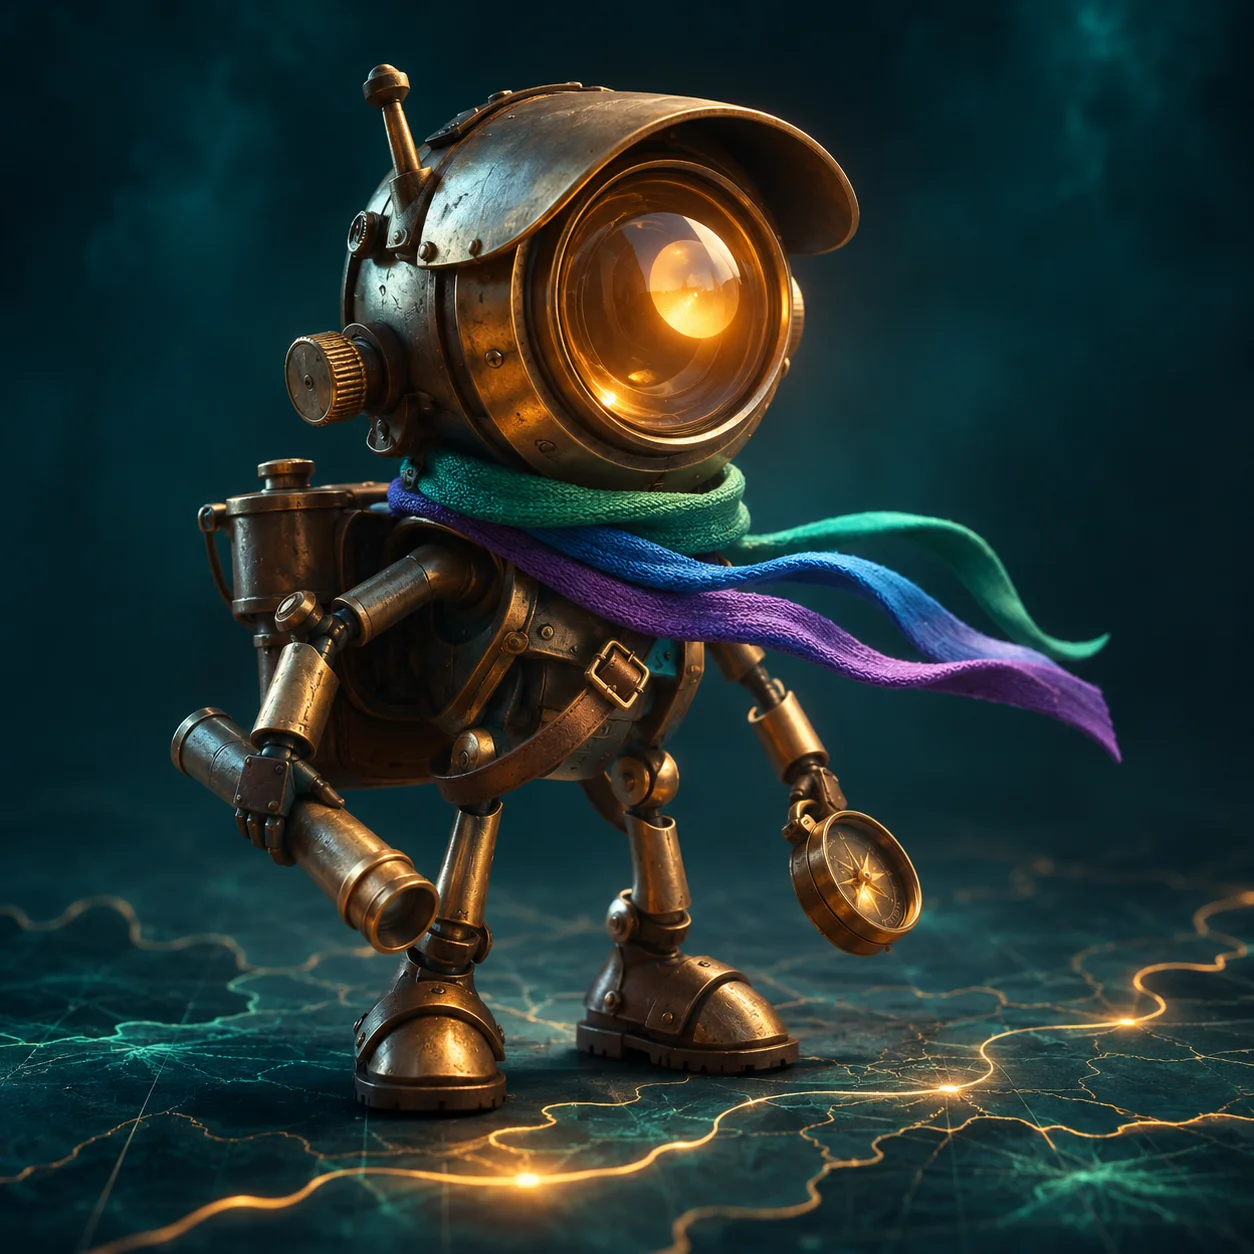
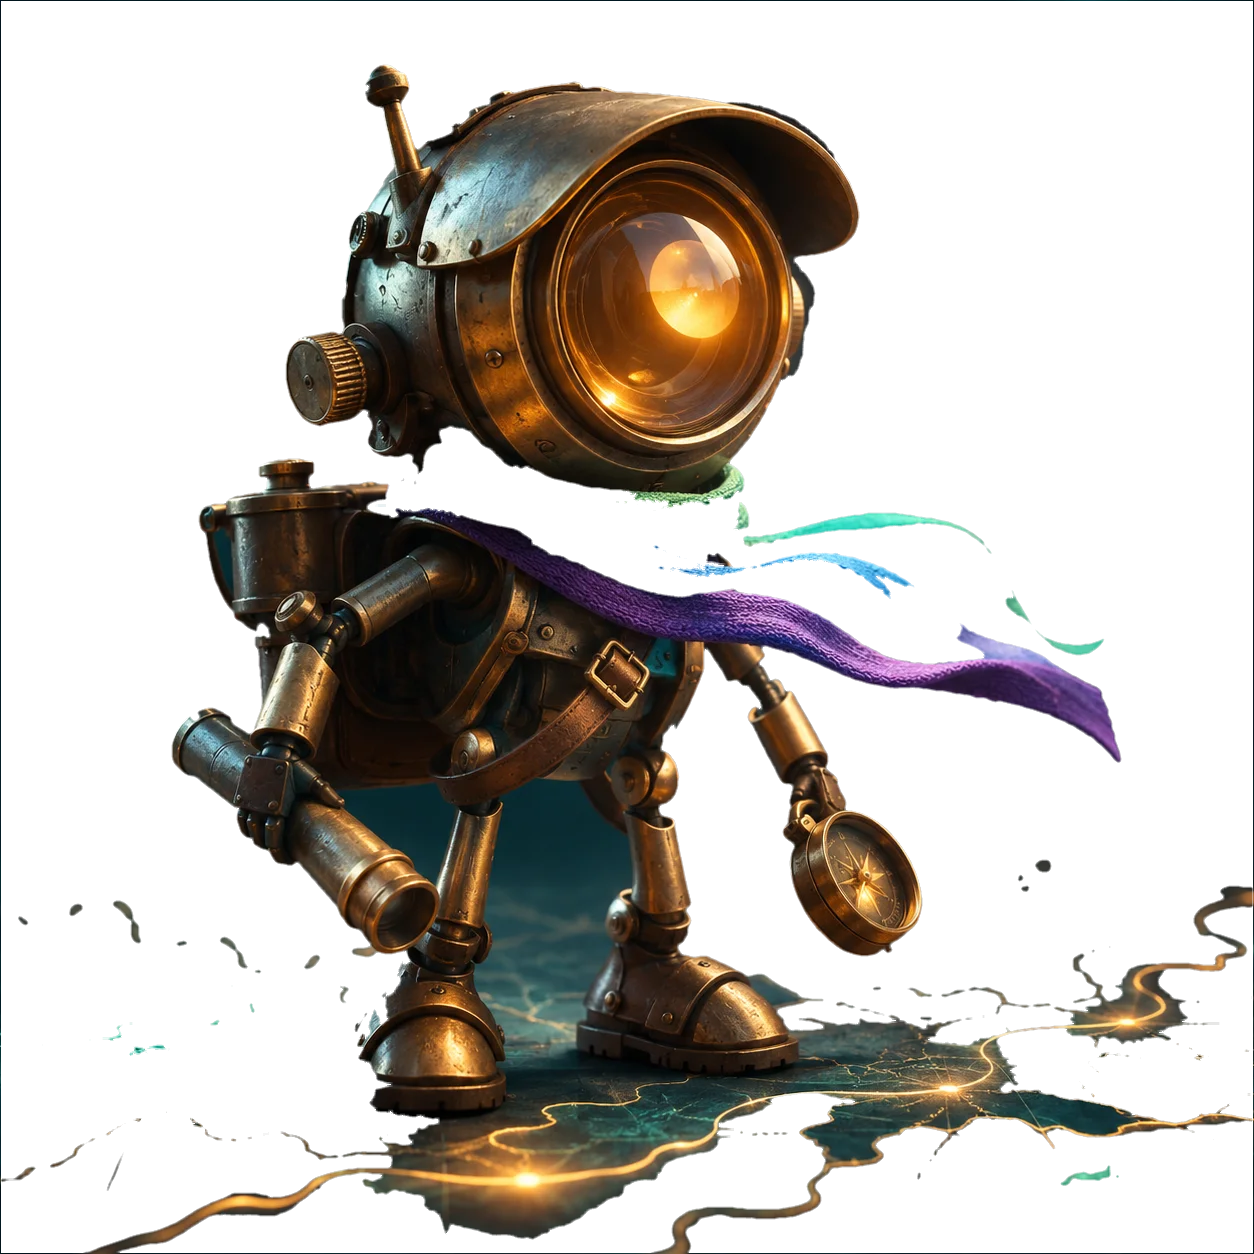
Refine GPT frame contrast and cut out Lupa background

diff --git a/styles.css b/styles.css
@@ -771,10 +771,31 @@ a { color: var(--signal); text-decoration-thickness: 1px; text-underline-offset:
   background-position: center;
   background-size: cover;
 }
+@media (min-width: 768px) {
+  .avatar-hero .hero__backdrop {
+    background-image:
+      linear-gradient(90deg, rgba(11, 31, 42, 0.86) 0%, rgba(11, 31, 42, 0.5) 44%, rgba(11, 31, 42, 0.12) 70%, rgba(11, 31, 42, 0.55) 100%),
+      linear-gradient(180deg, rgba(11, 31, 42, 0.28), rgba(11, 31, 42, 0.92)),
+      url("assets/avatar/hero-backdrop.webp");
+  }
+}
 .avatar-e .source-card--E { background-image: url("assets/avatar/portal-e.webp"); }
 .avatar-s .source-card--S { background-image: url("assets/avatar/portal-s.webp"); }
 .avatar-g .source-card--G { background-image: url("assets/avatar/portal-g.webp"); }
-.avatar-report .map-stage__paper { opacity: 0.5; transform: rotate(5deg); }
+.avatar-e .source-card--E::after,
+.avatar-s .source-card--S::after,
+.avatar-g .source-card--G::after {
+  background: linear-gradient(180deg, rgba(11, 31, 42, 0.24), rgba(11, 31, 42, 0.92) 65%, rgba(11, 31, 42, 0.96));
+}
+.avatar-e .source-card--E p,
+.avatar-s .source-card--S p,
+.avatar-g .source-card--G p { text-shadow: 0 1px 3px rgba(3, 16, 22, 0.9); }
+.avatar-e .source-card--E .source-card__hint { color: #6EE7B7; }
+.avatar-report .map-stage__paper { opacity: 0.34; transform: rotate(5deg); }
+.avatar-report .map-stage__title,
+.avatar-report .map-stage__reports span { text-shadow: 0 1px 4px rgba(3, 16, 22, 0.95); }
+.hero__lede, .hero__stats span, .report-cell b, .hero__scroll,
+.source-card p, .map-stage__reports span, .act__head p { color: #BCCDD2; }
 .avatar-result .quiz-result {
   background-image:
     linear-gradient(180deg, rgba(7, 24, 32, 0.82), rgba(7, 24, 32, 0.94)),
@@ -845,7 +866,7 @@ a { color: var(--signal); text-decoration-thickness: 1px; text-underline-offset:
     grid-template-columns: repeat(3, minmax(0, 1fr));
   }
   .report-cell { flex-direction: column; align-items: flex-start; gap: 2px; padding: 8px 10px; }
-  .report-cell b { display: block; font-size: 0.625rem; }
+  .report-cell b { display: block; font-size: 0.6875rem; }
   .hero__scroll { display: none; }
   .source-grid { grid-template-columns: 1fr; }
   .source-card { min-height: 260px; }

diff --git a/v2/index.html b/v2/index.html
@@ -1,0 +1,13 @@
+<!doctype html>
+<html lang="ru">
+<head>
+  <meta charset="utf-8">
+  <meta name="viewport" content="width=device-width, initial-scale=1">
+  <meta http-equiv="refresh" content="0; url=../">
+  <link rel="canonical" href="../">
+  <title>ESG Mapper — актуальная версия</title>
+</head>
+<body>
+  <p><a href="../">ESG Mapper переехал на главную страницу. Откройте актуальную версию.</a></p>
+</body>
+</html>
